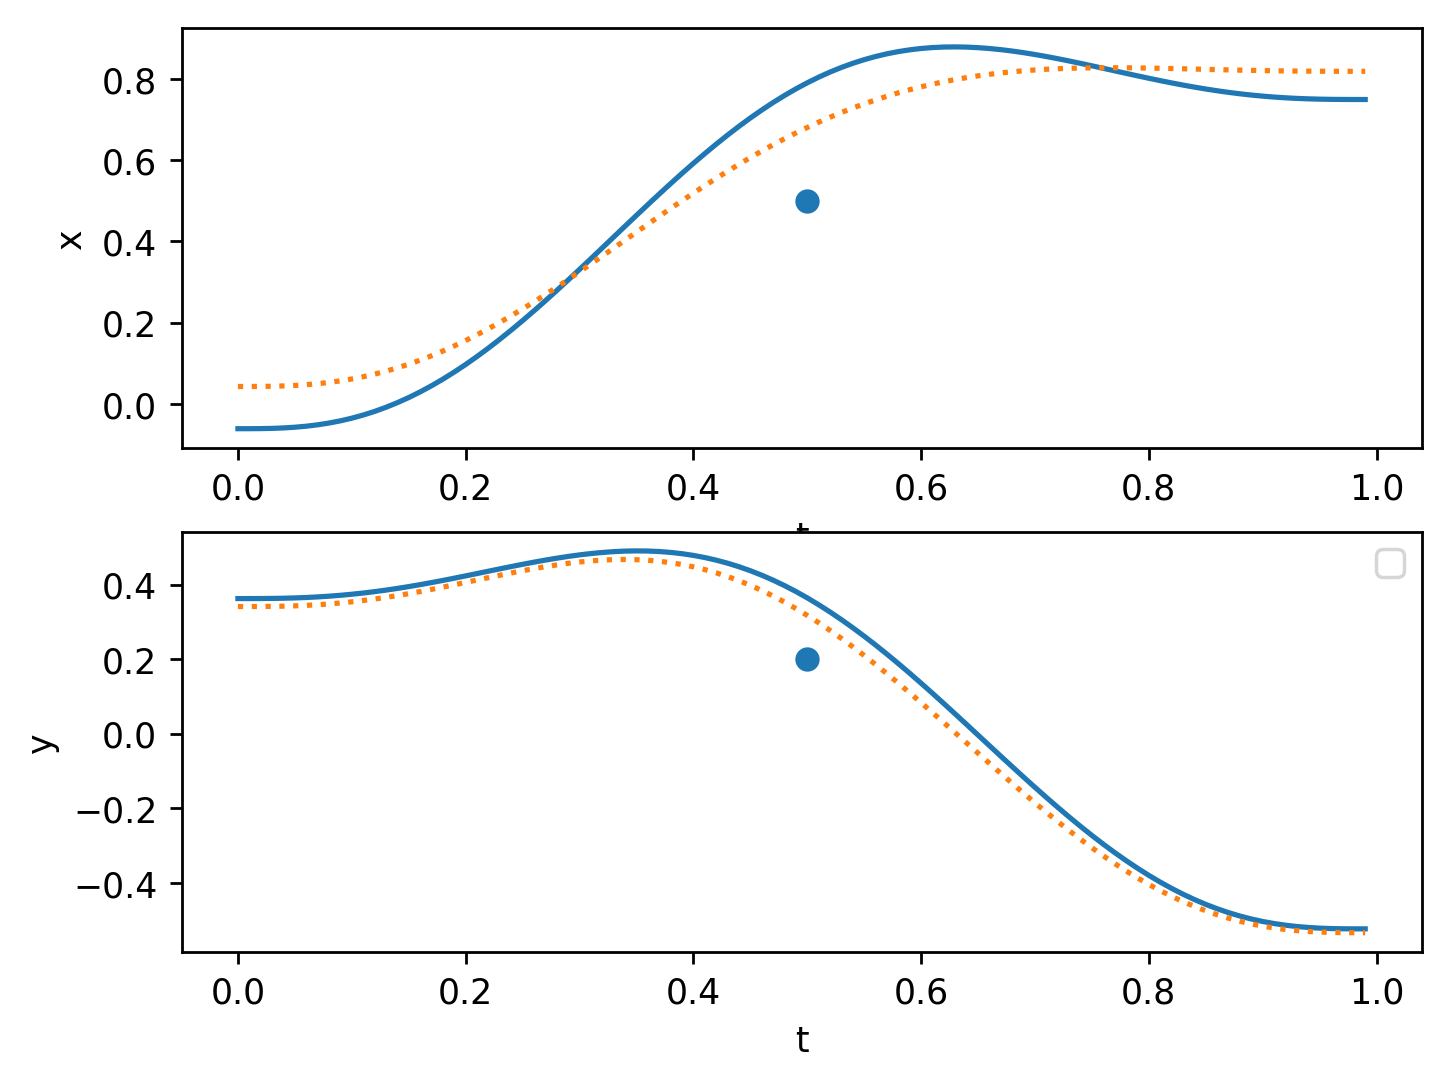
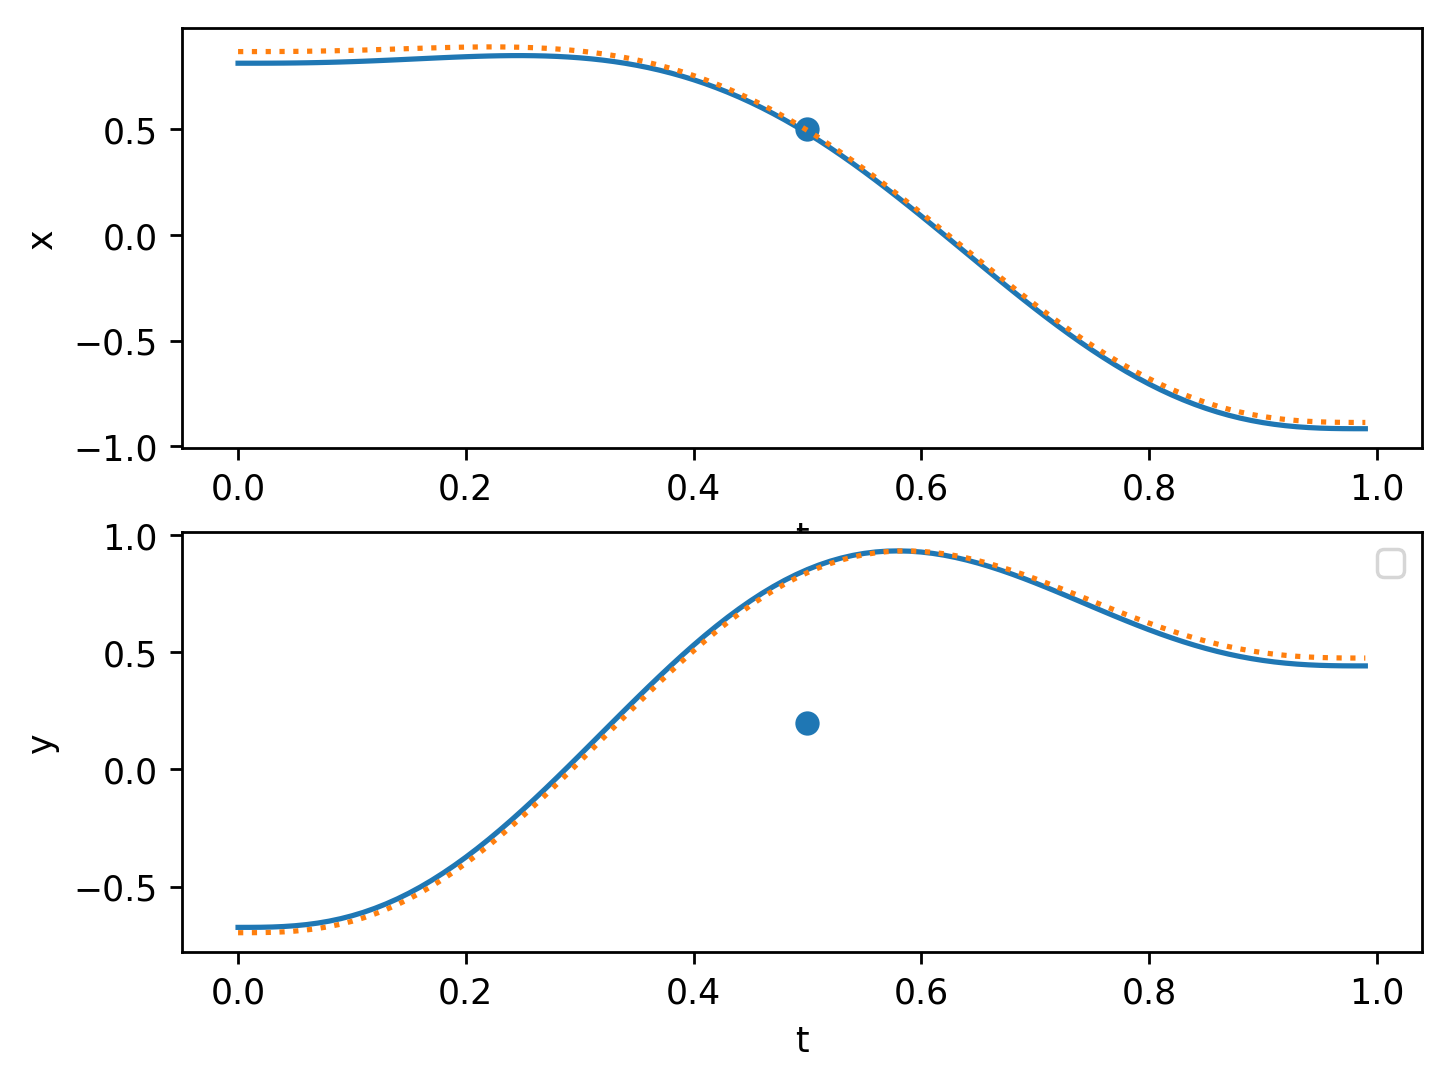
Dummy task plots fi

diff --git a/trainer.py b/trainer.py
@@ -8,6 +8,7 @@ class Trainer(object):
         self.model = model
         self.dpi = dpi
         self.duration = duration
+        self.via_point = np.array([0.5, 0.2])
 
         for d in demos_action:
             plt.scatter(d[:, 0], d[:, 1], color='black')
@@ -22,6 +23,8 @@ class Trainer(object):
             t_r, x_r = self.model.generate_rollout(1., duration)
             plt.plot(x_r[:, 0], x_r[:, 1], linestyle=':')
 
+        plt.scatter(self.via_point[0], self.via_point[1], label='w', marker='X')
+
         self.model.reset_rollout()
 
         plt.xlabel('x')
@@ -32,7 +35,7 @@ class Trainer(object):
         plt.clf()
 
         self.rewards = []
-        self.via_point = np.array([0.5, 0.2])
+
         self.via_t = 0.5
 
     def run(self, n_episode, n_rollout, std_init, decay_std, negative=False):

diff --git a/rl_dummy.py b/rl_dummy.py
@@ -32,5 +32,6 @@ for t in trainers:
     plt.plot(t.rewards, label=t.name)
 plt.xlabel('Rollout')
 plt.ylabel('Cost')
+plt.legend()
 plt.savefig('figures/costs.png', dpi=250, bbox_inches='tight')
 plt.clf()
